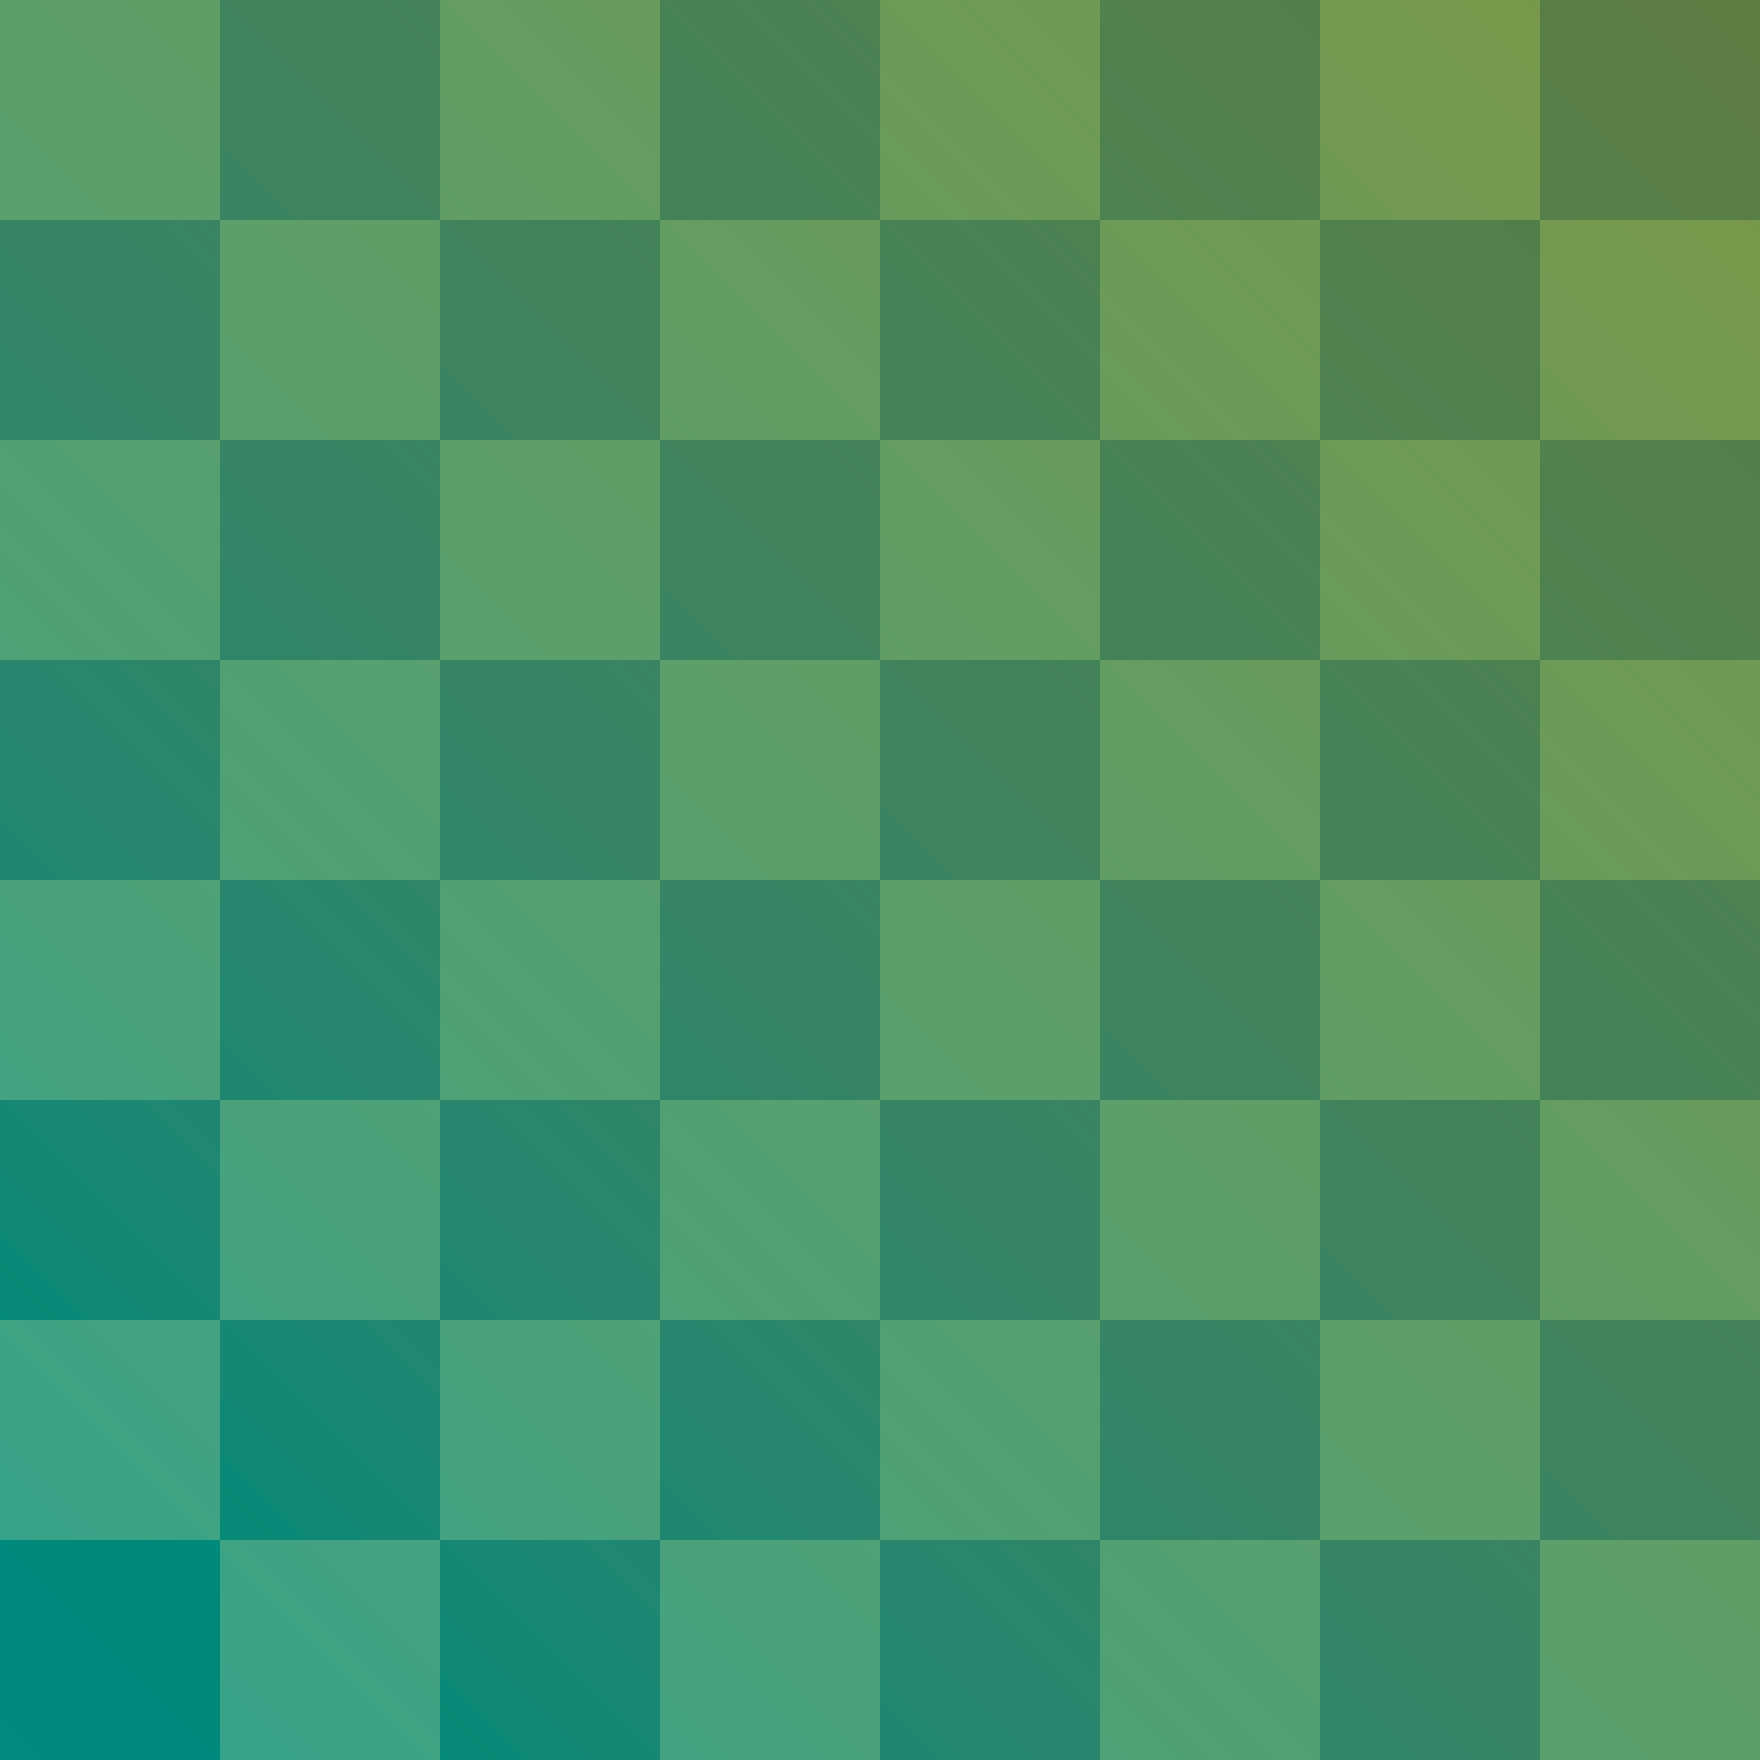
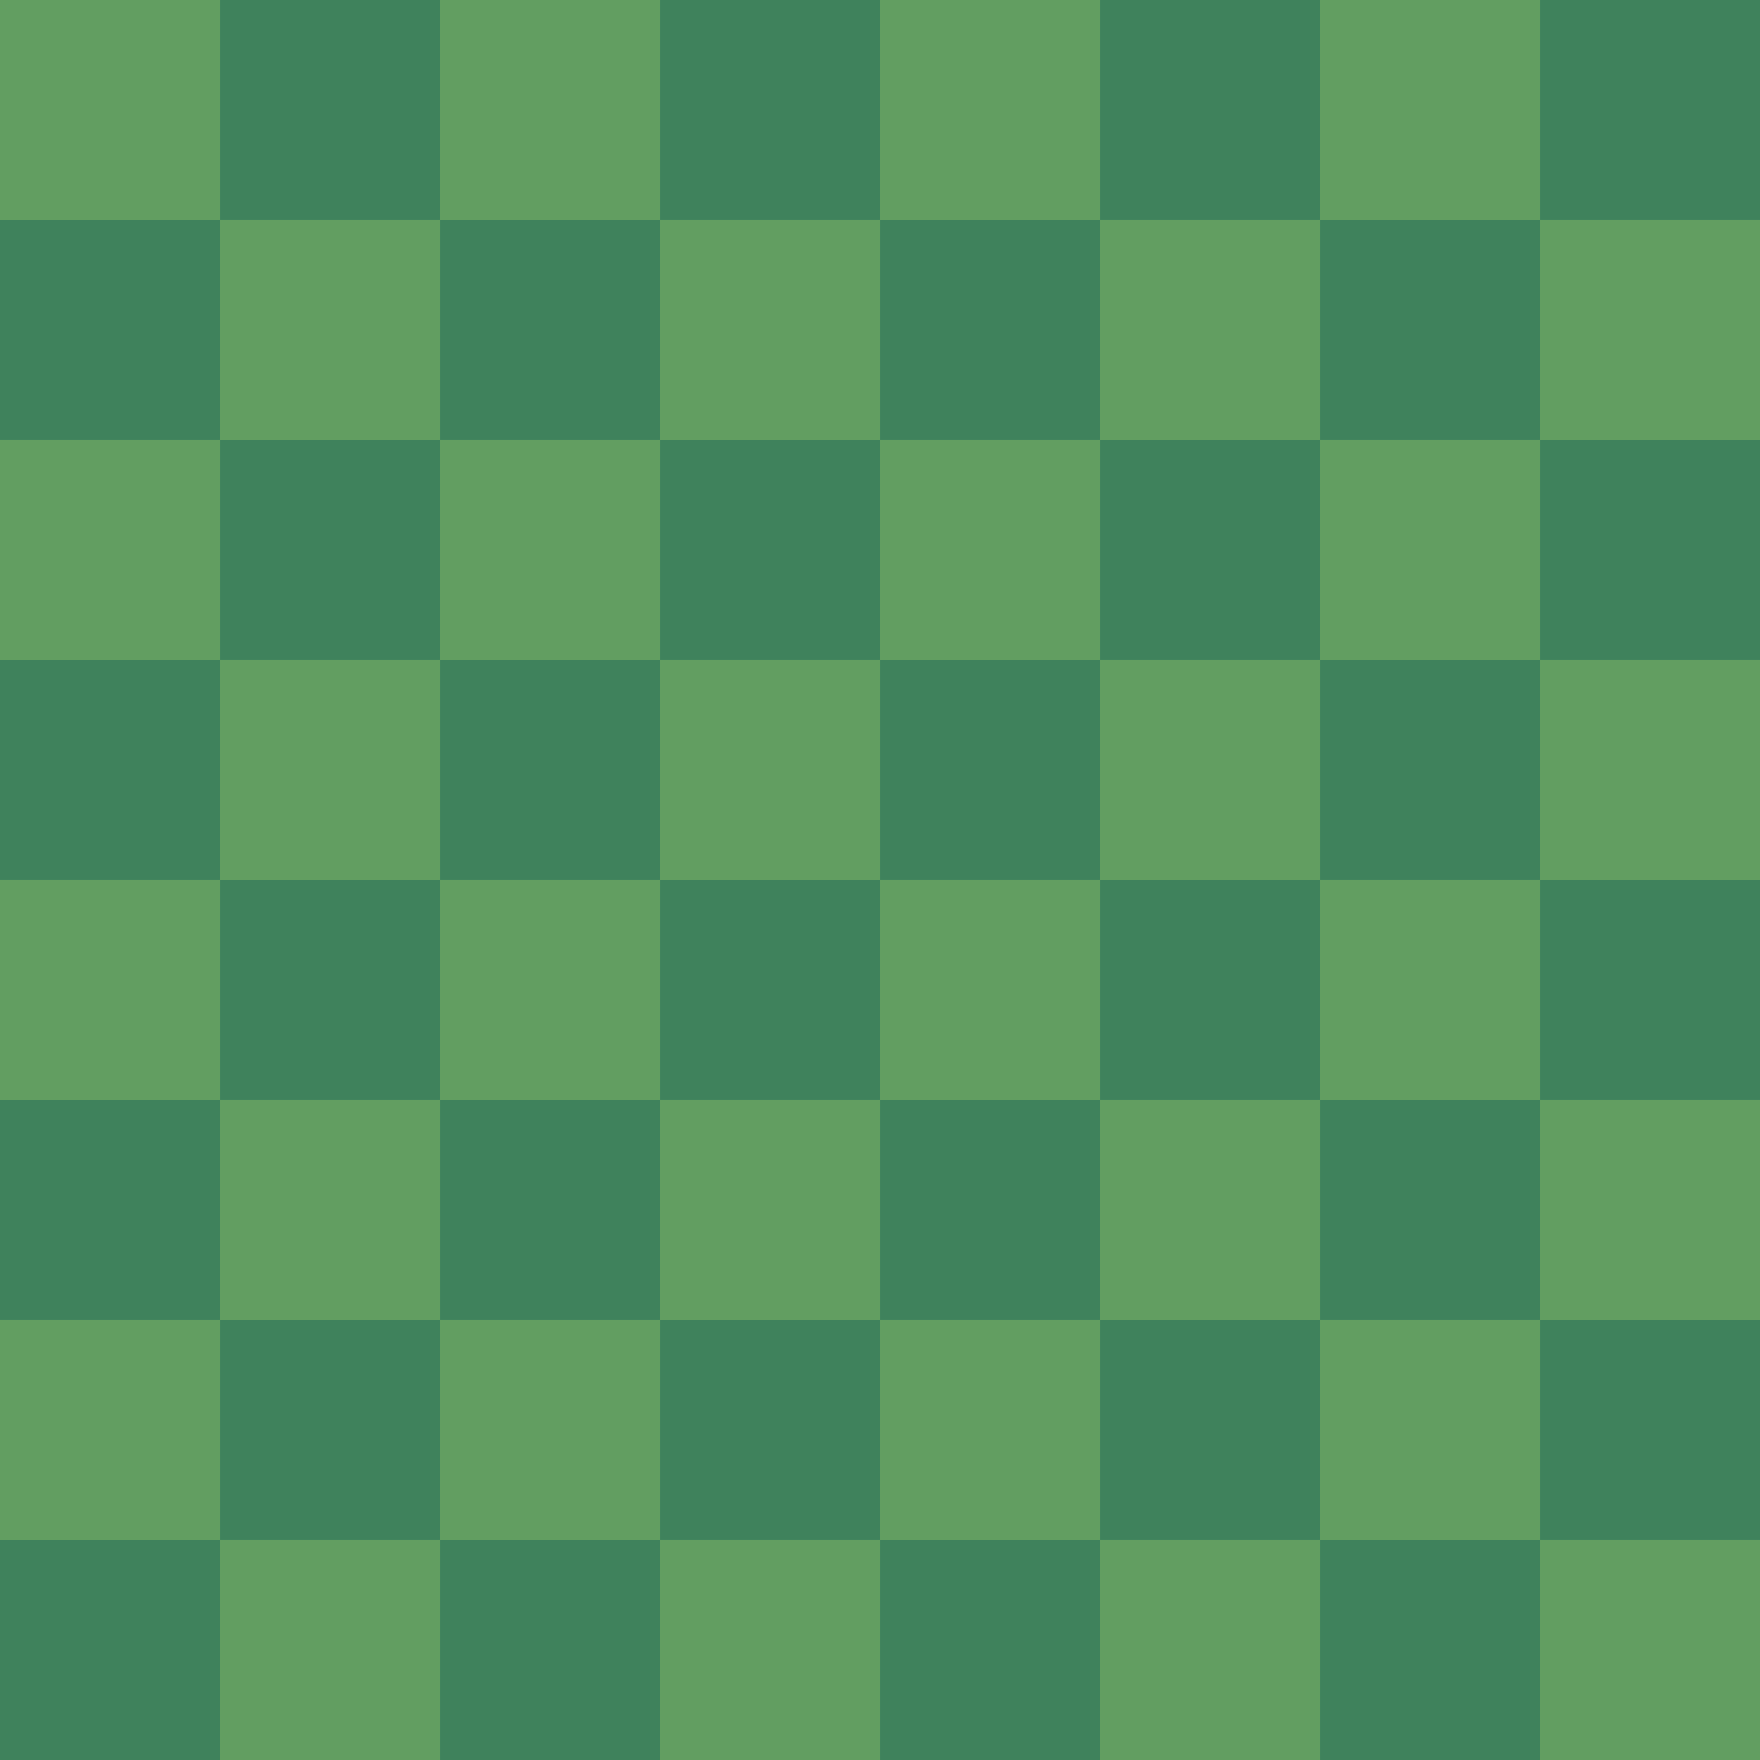
Update default board
Minor updates to pieces, removed gradient on the board, seperated lst move and next move hilights, updated hilight colours for default board and Lichess

Changed region(s): [[0.0, 0.375, 0.625, 1.0], [0.875, 0.0, 1.0, 0.125]]

diff --git a/src/utils/theming.tsx b/src/utils/theming.tsx
@@ -74,9 +74,10 @@ export const BOARD_THEMES: BoardTheme[] = [
     // },
     // highlight: "hsla(198, 100%, 63%, 0.30)",
     // highlightDark: "hsla(198, 100%, 63%, 0.30)",
-    highlight: "hsla(198, 100%, 100%, 0.30)",
-    highlightDark: "hsla(198, 100%, 100%, 0.30)",
     boardImage: chessbookBoard,
+    highlightLastMove: "hsla(198, 100%, 63%, 0.5)",
+    highlightNextMove: "hsla(38, 74%, 55%, 0.5)",
+    highlightDark: "hsla(38, 74%, 55%, 0.5)",
     light: {
       color: c.grays[24],
     },
@@ -87,7 +88,8 @@ export const BOARD_THEMES: BoardTheme[] = [
   {
     id: "lichess-brown",
     name: "Lichess brown",
-    highlight: defaultHighlight,
+    highlightLastMove: defaultHighlight,
+    highlightNextMove: "hsla(129, 62%, 21%, 0.5)",
     highlightDark: defaultDarkHighlight,
     light: {
       color: `hsl(37, 67%, 83%)`,
@@ -99,7 +101,8 @@ export const BOARD_THEMES: BoardTheme[] = [
   {
     id: "chess.com",
     name: "chess.com",
-    highlight: defaultHighlight,
+    highlightLastMove: defaultHighlight,
+    highlightNextMove: defaultHighlight,
     highlightDark: defaultDarkHighlight,
     light: {
       color: `hsl(60, 44%, 88%)`,
@@ -111,7 +114,8 @@ export const BOARD_THEMES: BoardTheme[] = [
   {
     id: "stripey",
     name: "Stripey",
-    highlight: defaultHighlight,
+    highlightLastMove: defaultHighlight,
+    highlightNextMove: defaultHighlight,
     highlightDark: defaultDarkHighlight,
     light: {
       color: c.hsl(0, 0, 86),

diff --git a/src/components/chessboard/Chessboard.tsx b/src/components/chessboard/Chessboard.tsx
@@ -781,7 +781,7 @@ export function ChessboardView(props: {
                           }`}
                           id={`highlight-${square()}`}
                           style={s(
-                            c.bg(theme().highlight),
+                            c.bg(isLastMoveSquare() ? theme().highlightLastMove : theme().highlightNextMove),
                             c.absolute,
                             c.zIndex(1)
                           )}
